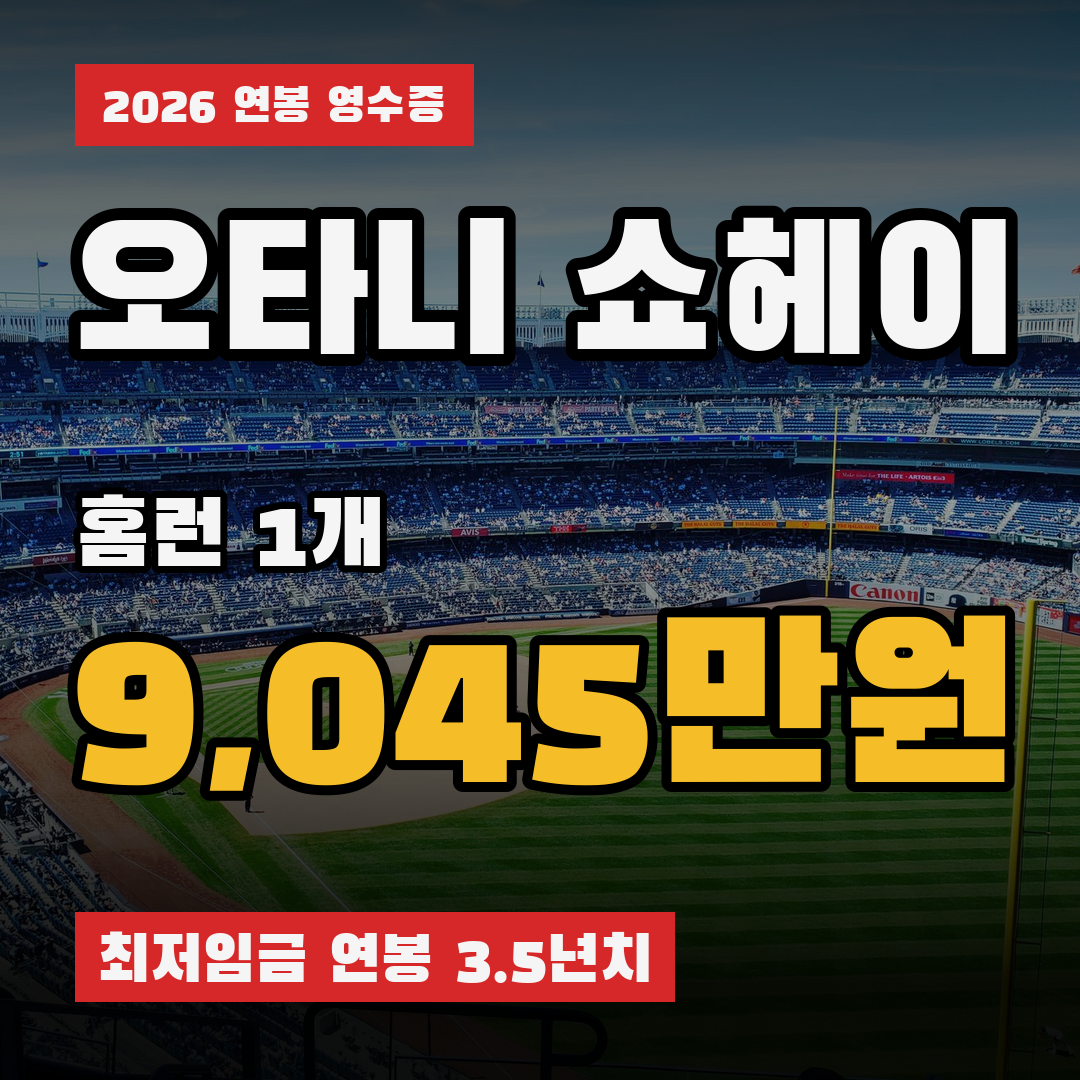
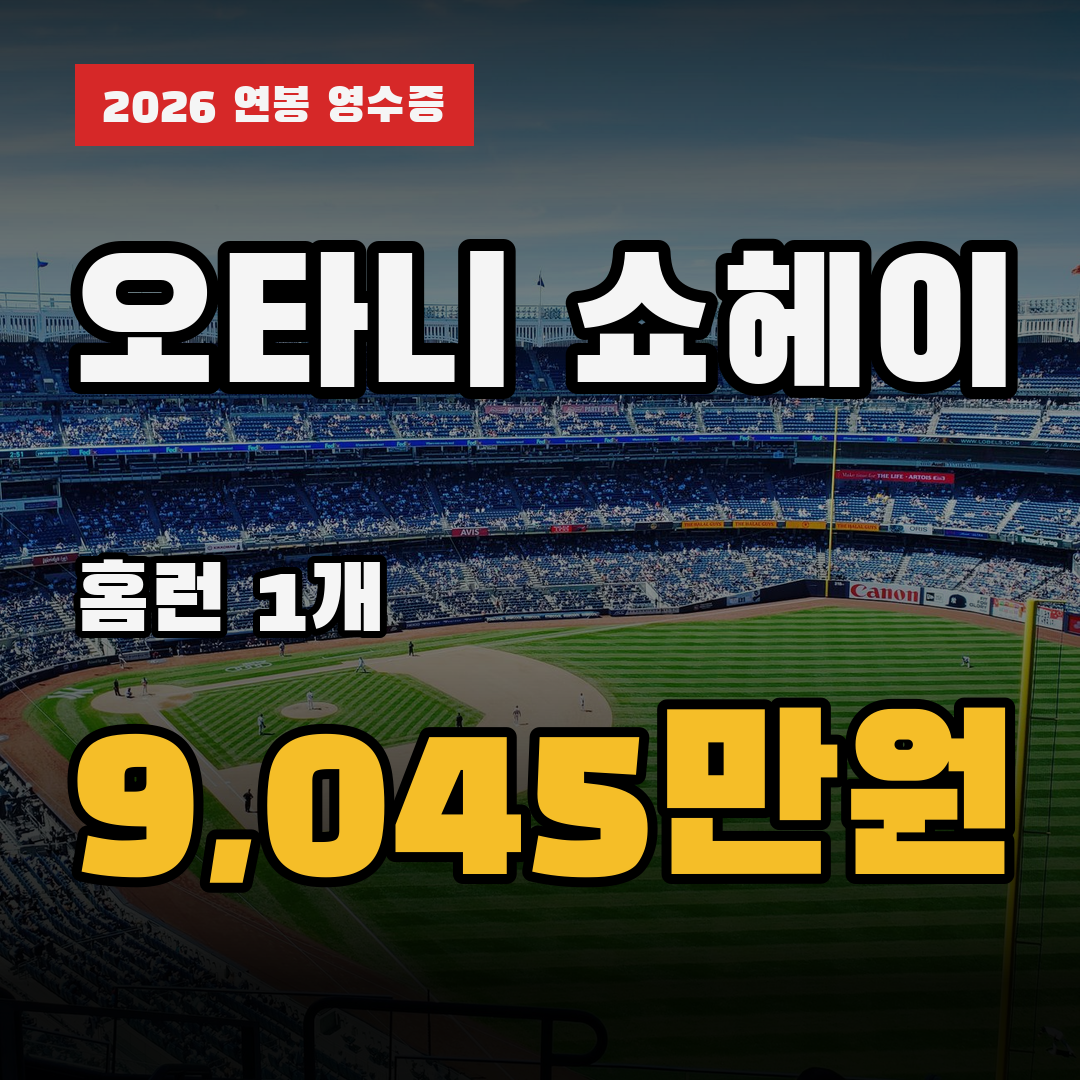
썸네일에서 최저임금 문구 제거 (궁금해서 누르게, 대표 결정)
Claude-Session: https://claude.ai/code/session_01HNJTaMMcXgMjQhv2iW7WGc

diff --git a/content/receipt.py b/content/receipt.py
@@ -100,7 +100,9 @@ def _shade(im: Image.Image) -> Image.Image:
 
 
 def thumb_image(d: dict, n: dict, w: int = 1080, photo: Image.Image | None = None) -> Image.Image:
-    """홈판 카드: 선수 이름이 가장 크게(맨 위) → 기록 → 아주 큰 금액 → 최저임금 한 줄. 배경은 실사(없으면 남색)."""
+    """홈판 카드: 선수 이름이 가장 크게(맨 위) → 기록 → 아주 큰 금액. 배경은 실사(없으면 남색).
+
+    설명(최저임금 비교 등)은 넣지 않는다: 궁금해서 눌러 보게 (대표 결정). 비교는 본문 카드에서."""
     im = _shade(_cover(photo, w)) if photo is not None else Image.new("RGB", (w, w), BG)
     dr = ImageDraw.Draw(im)
     x0 = int(w * 0.07)
@@ -110,22 +112,15 @@ def thumb_image(d: dict, n: dict, w: int = 1080, photo: Image.Image | None = Non
     dr.rectangle((x0, w * 0.06, x0 + (r - l) + w * 0.05, w * 0.06 + (b - t) + w * 0.04), fill=RED)
     dr.text((x0 + w * 0.025, w * 0.06 + w * 0.02 - t), tag, font=tf, fill=WHITE)
     name = d["player"]
-    dr.text((x0 - w * 0.005, w * 0.28), name, font=fit(dr, name, "display", int(w * 0.2), w * 0.88), fill=WHITE,
+    dr.text((x0 - w * 0.005, w * 0.31), name, font=fit(dr, name, "display", int(w * 0.2), w * 0.88), fill=WHITE,
             anchor="lm", stroke_width=int(w * 0.012), stroke_fill=(0, 0, 0))
     head = headline(d)
     label = next(u["label"] for u in units(d) if u["key"] == head)
-    dr.text((x0, w * 0.5), label, font=font("display", int(w * 0.085)), fill=WHITE, anchor="lm",
+    dr.text((x0, w * 0.56), label, font=font("display", int(w * 0.085)), fill=WHITE, anchor="lm",
             stroke_width=int(w * 0.007), stroke_fill=(0, 0, 0))
     big = short_won(n["per"][head])
-    dr.text((x0 - w * 0.005, w * 0.665), big, font=fit(dr, big, "display", int(w * 0.22), w * 0.88), fill=GOLD,
+    dr.text((x0 - w * 0.005, w * 0.75), big, font=fit(dr, big, "display", int(w * 0.24), w * 0.88), fill=GOLD,
             anchor="lm", stroke_width=int(w * 0.01), stroke_fill=(0, 0, 0))
-    years = n.get("min_wage_years_per", {}).get(head)
-    line3 = f"최저임금 연봉 {years:.1f}년치" if years else f"올해 연봉 {won(n['salary_krw'])}"
-    f3 = fit(dr, line3, "display", int(w * 0.06), w * 0.8)
-    l, t, r, b = dr.textbbox((0, 0), line3, font=f3)
-    y3 = int(w * 0.845)
-    dr.rectangle((x0, y3, x0 + (r - l) + w * 0.04, y3 + (b - t) + w * 0.035), fill=RED)
-    dr.text((x0 + w * 0.02, y3 + w * 0.0175 - t), line3, font=f3, fill=WHITE)
     return im
 
 

diff --git a/posts/2026-09-29-오타니-영수증/post.md b/posts/2026-09-29-오타니-영수증/post.md
@@ -74,6 +74,7 @@
 기준: 연봉·계약은 계약 내용 보도, 성적은 2026년 9월 28일 보도, 환율은 2026년 9월 29일 서울 외환시장, 최저임금은 2026년 고시(시급 10,320원, 월 209시간) 기준이에요.
 
 
+
 대표 사진: Jonathan / Pexels (https://www.pexels.com/photo/drone-shot-of-people-watching-a-baseball-game-12406210/)
 
 ## 출처
